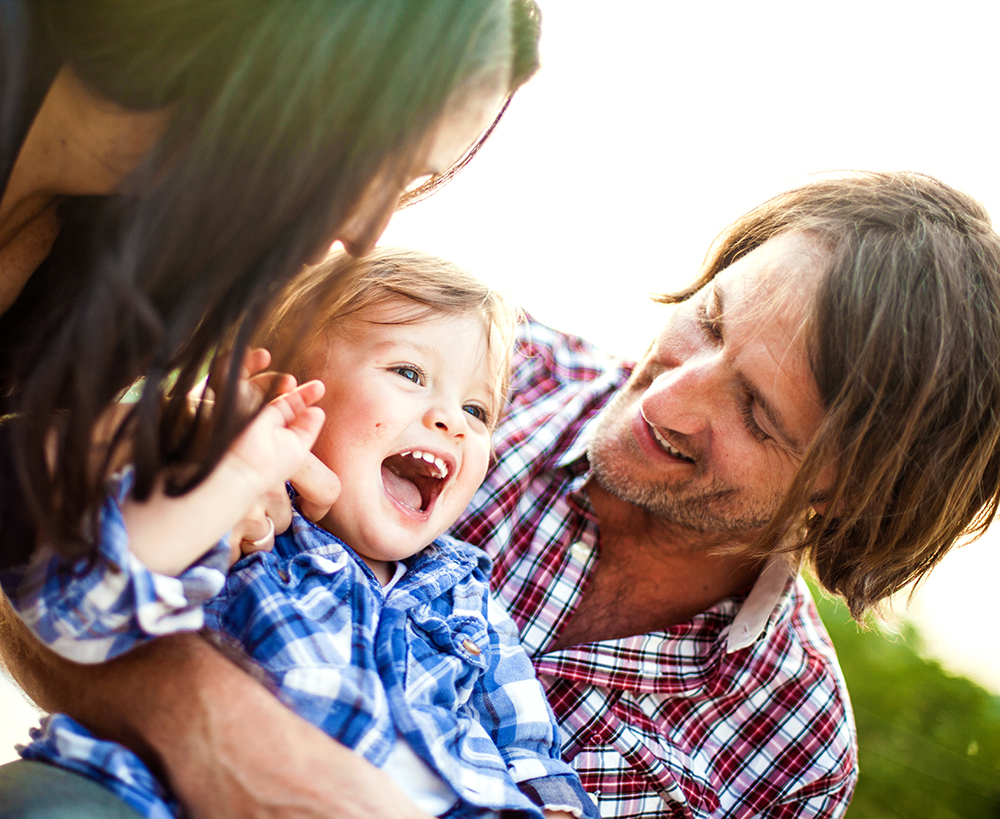
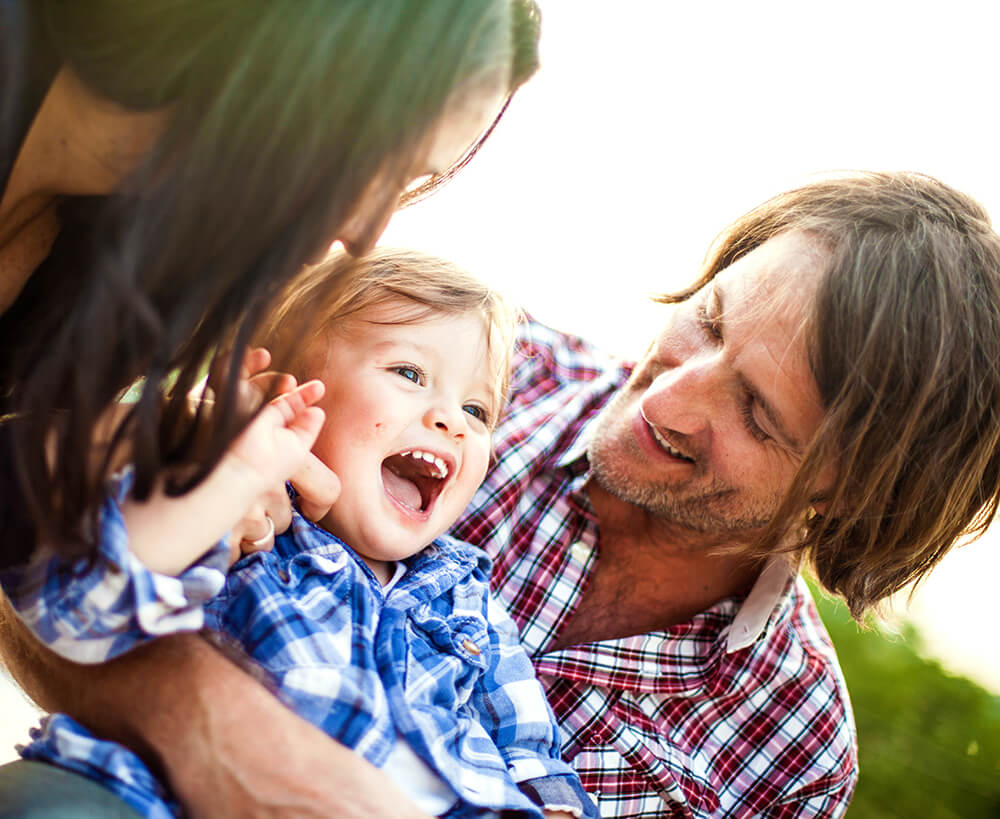
mets à jour le fichier example et compresse les images

diff --git a/examples/index.php b/examples/index.php
@@ -1,4 +1,4 @@
-<?php 
+<?php
 $pathLinkFile="./assets/";
 ?>
 
@@ -6,13 +6,13 @@ $pathLinkFile="./assets/";
 <html lang="fr">
 <head>
 	<title>formflex</title>
-	
+
 	<meta name="description" content="Description courte de la page" />
 	<meta http-equiv="Content-Type" content="text/html; charset=utf-8" />
 	<meta http-equiv="Content-Language" content="fr" />
 	<meta http-equiv="Content-Script-Type" content="text/javascript" />
 	<meta name="viewport" content="width=device-width, initial-scale=1.0">
-	
+
 	<link href="<?php echo $pathLinkFile; ?>css/style.css" rel="stylesheet" type="text/css" />
 	<link rel="stylesheet" href="https://maxcdn.bootstrapcdn.com/font-awesome/4.6.1/css/font-awesome.min.css">
 	<link href="<?php echo $pathLinkFile; ?>img/favicon.png" rel="shortcut icon" type="image/png" />
@@ -24,7 +24,7 @@ $pathLinkFile="./assets/";
 	<i class="fa fa-link"></i> SliKer
 </h1>
 
-<div id="slider_classique" class="sliker safeload vam" data-arrow="fa fa-caret" data-bullet="fa fa-star">
+<div id="slider_classique" class="sliker safeload" data-arrow="fa fa-caret" data-bullet="fa fa-star">
 	<div class="conteneur_strict">
 		<ul class="grand_slider">
 			<?php for($i=1;$i<=10;$i++){ ?>
@@ -39,6 +39,47 @@ $pathLinkFile="./assets/";
 		</ul>
 	</div>
 </div>
+
+<blockquote>
+&lt;div id="slider_classique" class="sliker safeload" data-arrow="fa fa-caret" data-bullet="fa fa-star">
+	&lt;div class="conteneur_strict">
+		&lt;ul class="grand_slider">
+			&lt;?php for($i=1;$i&lt;=10;$i++){ ?>
+			&lt;li class="&lt;?php if($i==3){echo "selected";} ?>">
+				&lt;div class="block-3-2">
+					&lt;span>
+						&lt;img src="&lt;?php echo $pathLinkFile; ?>img/examples/&lt;?php echo $i; ?>.jpg">
+					&lt;/span>
+				&lt;/div>
+			&lt;/li>
+			&lt;?php } ?>
+		&lt;/ul>
+	&lt;/div>
+&lt;/div>
+
+$('#slider_classique').sliker({
+'nbr_li':1, //nombre d'éléments qui défilent à chaque mouvement.
+'vitesse_auto':3000, //temps entre deux mouvements automatiques.
+'vitesse': 500, //rapidité du mouvement (automatique ou manuel, même paramètre).
+'auto':0, //activer (1) en utilisant vitesse_auto, désactiver (0) ou personnaliser ("custom"). Voir la rubrique Timer.
+'type':"none", //définit le role du slider dans le cas d'une liaison. Options: visualiseur, menu, none.
+'cible':"none", //spécifie l'id du slider compagnon dans le cas d'une liaison (ex: #slider_deux).
+'isolement': 0, //si actif, le slider est isolé par un fond noir transparent lors de son utilisation.
+'pc_only':0, //si actif, le slider sera éffacé sur tous les dispositifs mobiles.
+'loop':0, //si actif, le slider répetera son contenu indéfiniment, créant un rail infini.
+'liquide':1, //si actif, l'élément prendra, de façon élastique, toute la zone du slider.
+'drag':0, //permet la manipulation du slider aux doigts ou en cliquer/glisser à la souris.
+'creer_afficheur': 0, //crée automatiquement une zone avec l'image zoomée au dessus du slider.
+'fading_mode': 1, //remplace la transition en "déplacement de rail" par un fondu.
+'fading_type': 1, //mode 1: fondu blanc. mode 2: fondu enchainé entre deux images.
+'buffering_nbr': 1, //nombre d'image préchargé autour de l'image active. Nécessite l'utilisation de data-src au lieu de src.
+'fullscreen': 1, //affiche ou masque le bouton fullscreen.
+'bullets': 1, //affiche ou masque les puces du slider.
+'bullets_limit': 20, //limite de puces au délà de laquelle celles ci se transforme en un menu pages (ex: 7/22).
+'bullets_limit_mobile': 8, //identique à bullets_limit mais ne s'applique qu'en cas de mobile
+'arrows': 1, //affiche ou masque les flèches du slider.
+});
+</blockquote>
 
 </div><!-- \#wrapper -->
 <script src="https://code.jquery.com/jquery-1.12.3.min.js" integrity="sha256-aaODHAgvwQW1bFOGXMeX+pC4PZIPsvn2h1sArYOhgXQ=" crossorigin="anonymous"></script>
@@ -72,25 +113,26 @@ $("pre, blockquote").on("click","span",function(){
 <script>
 $(document).ready(function(){
 	$('#slider_classique').sliker({
-	'nbr_li':1,
-	'vitesse_auto':3000,
-	'vitesse': 500,
-	'auto':0,
-	'type':"none",
-	'cible':"none",
-	'isolement': 0,
-	'pc_only':0,
-	'loop':0,
-	'liquide':1,
-	'drag':0,
-	'creer_afficheur': 0,
-	'fading_mode': 1,
-	'fading_type': 2,
-	'buffering_nbr': 1,
-	'fullscreen': 1,
-	'bullets': 1,
-	'bullets_limit': 20,
-	'arrows': 1,
+	'nbr_li':1, //nombre d'éléments qui défilent à chaque mouvement.
+	'vitesse_auto':3000, //temps entre deux mouvements automatiques.
+	'vitesse': 500, //rapidité du mouvement (automatique ou manuel, même paramètre).
+	'auto':0, //activer (1) en utilisant vitesse_auto, désactiver (0) ou personnaliser ("custom"). Voir la rubrique Timer.
+	'type':"none", //définit le role du slider dans le cas d'une liaison. Options: visualiseur, menu, none.
+	'cible':"none", //spécifie l'id du slider compagnon dans le cas d'une liaison (ex: #slider_deux).
+	'isolement': 0, //si actif, le slider est isolé par un fond noir transparent lors de son utilisation.
+	'pc_only':0, //si actif, le slider sera éffacé sur tous les dispositifs mobiles.
+	'loop':0, //si actif, le slider répetera son contenu indéfiniment, créant un rail infini.
+	'liquide':1, //si actif, l'élément prendra, de façon élastique, toute la zone du slider.
+	'drag':0, //permet la manipulation du slider aux doigts ou en cliquer/glisser à la souris.
+	'creer_afficheur': 0, //crée automatiquement une zone avec l'image zoomée au dessus du slider.
+	'fading_mode': 1, //remplace la transition en "déplacement de rail" par un fondu.
+	'fading_type': 1, //mode 1: fondu blanc. mode 2: fondu enchainé entre deux images.
+	'buffering_nbr': 1, //nombre d'image préchargé autour de l'image active. Nécessite l'utilisation de data-src au lieu de src.
+	'fullscreen': 1, //affiche ou masque le bouton fullscreen.
+	'bullets': 1, //affiche ou masque les puces du slider.
+	'bullets_limit': 20, //limite de puces au délà de laquelle celles ci se transforme en un menu pages (ex: 7/22).
+	'bullets_limit_mobile': 8, //identique à bullets_limit mais ne s'applique qu'en cas de mobile
+	'arrows': 1, //affiche ou masque les flèches du slider.
 	});
 });//doc ready
 </script>
